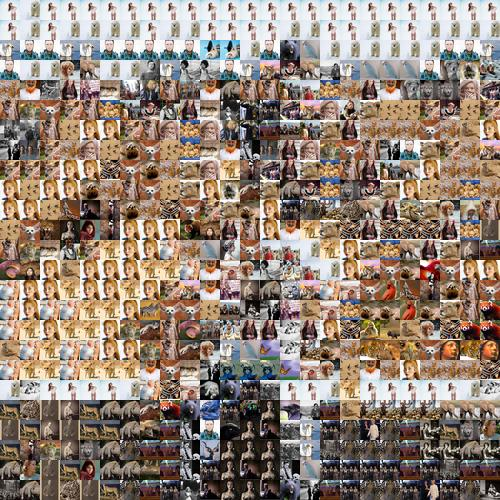
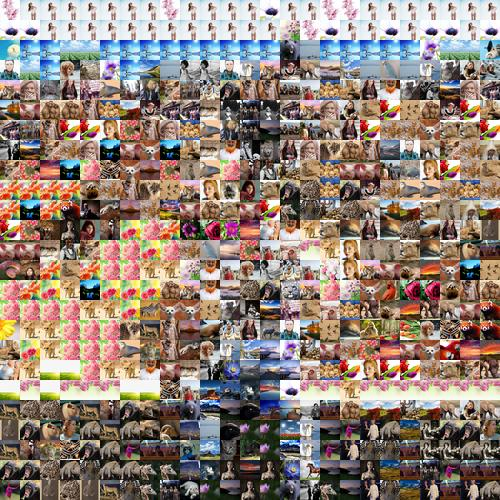
experimented to find best hash balance (number to check & whether to shrink or not) + expanded library + guarding for images with same RGB average

diff --git a/mosaic.py b/mosaic.py
@@ -11,7 +11,7 @@ def resize_source_image( image ):
   #default dimensions to resize source image to
   source_size = 500,500
   image.thumbnail(source_size, Image.ANTIALIAS)
-  #image.show()
+  image.show()
   return image
 
 ##################
@@ -46,6 +46,7 @@ def calc_average_rgb(image, is_block):
 #calculate hash of image
 ##################
 def calc_image_hash(image):
+  #image = ImageOps.fit(image, (50,50), Image.ANTIALIAS)
   hash1 = imagehash.whash(image)
   return hash1
 
@@ -88,7 +89,7 @@ def closest_tile(tile_rgb_averages, block_rgb_average, vary_tiles):
   if vary_tiles:
     return sorted_rgb_values[randint(0, 1)]
   else:
-    return sorted_rgb_values[:2] #experiment with 3 closest rgb matches
+    return sorted_rgb_values[:3] #experiment with 3 closest rgb matches
   
 ##################
 #main method - construct mosaic from tiles in library
@@ -117,6 +118,9 @@ def create_mosaic(source_image, input_tile_size, outlier_flagging, vary_tiles):
   #Key = RGB, Value = Image
   tile_rgb_averages = {} 
 
+  R_overflow = 256
+  G_overflow = 256
+  B_overflow = 256
   #put tile images from databse into our rgb/image dictionary
   print 'Gathering image tiles from library...'
   for i in range(0, len(db_tiles), 1):
@@ -126,8 +130,12 @@ def create_mosaic(source_image, input_tile_size, outlier_flagging, vary_tiles):
       print 'WARNING: 2 tiles with same RGB average: ', tile_rgb_averages[((db_tiles[i])[1], (db_tiles[i])[2], (db_tiles[i])[3])], '+', t
       tile_rgb_averages[((db_tiles[i])[1], (db_tiles[i])[2], (db_tiles[i])[3])].show()
       t.show()
-
-    tile_rgb_averages[((db_tiles[i])[1], (db_tiles[i])[2], (db_tiles[i])[3])] = t
+      tile_rgb_averages[(R_overflow, G_overflow, B_overflow)] = t
+      R_overflow+=1
+      G_overflow+=1
+      B_overflow+=1
+    else:
+      tile_rgb_averages[((db_tiles[i])[1], (db_tiles[i])[2], (db_tiles[i])[3])] = t
 
   #Key = Coordinate in Source, Value = RGB
   block_rgb_dict = {}
@@ -188,7 +196,7 @@ def create_mosaic(source_image, input_tile_size, outlier_flagging, vary_tiles):
 
   os.path.splitext(source_image)[0]
   mosaic.save('/home/mbax4sd2/3rd Year Project/output/%s%smosaic.jpg' % (os.path.splitext(source_image)[0][14:], input_tile_size)) 
-  #mosaic.show()
+  mosaic.show()
 
   end = time.time()
   print 'Time elapsed: ', end - start
